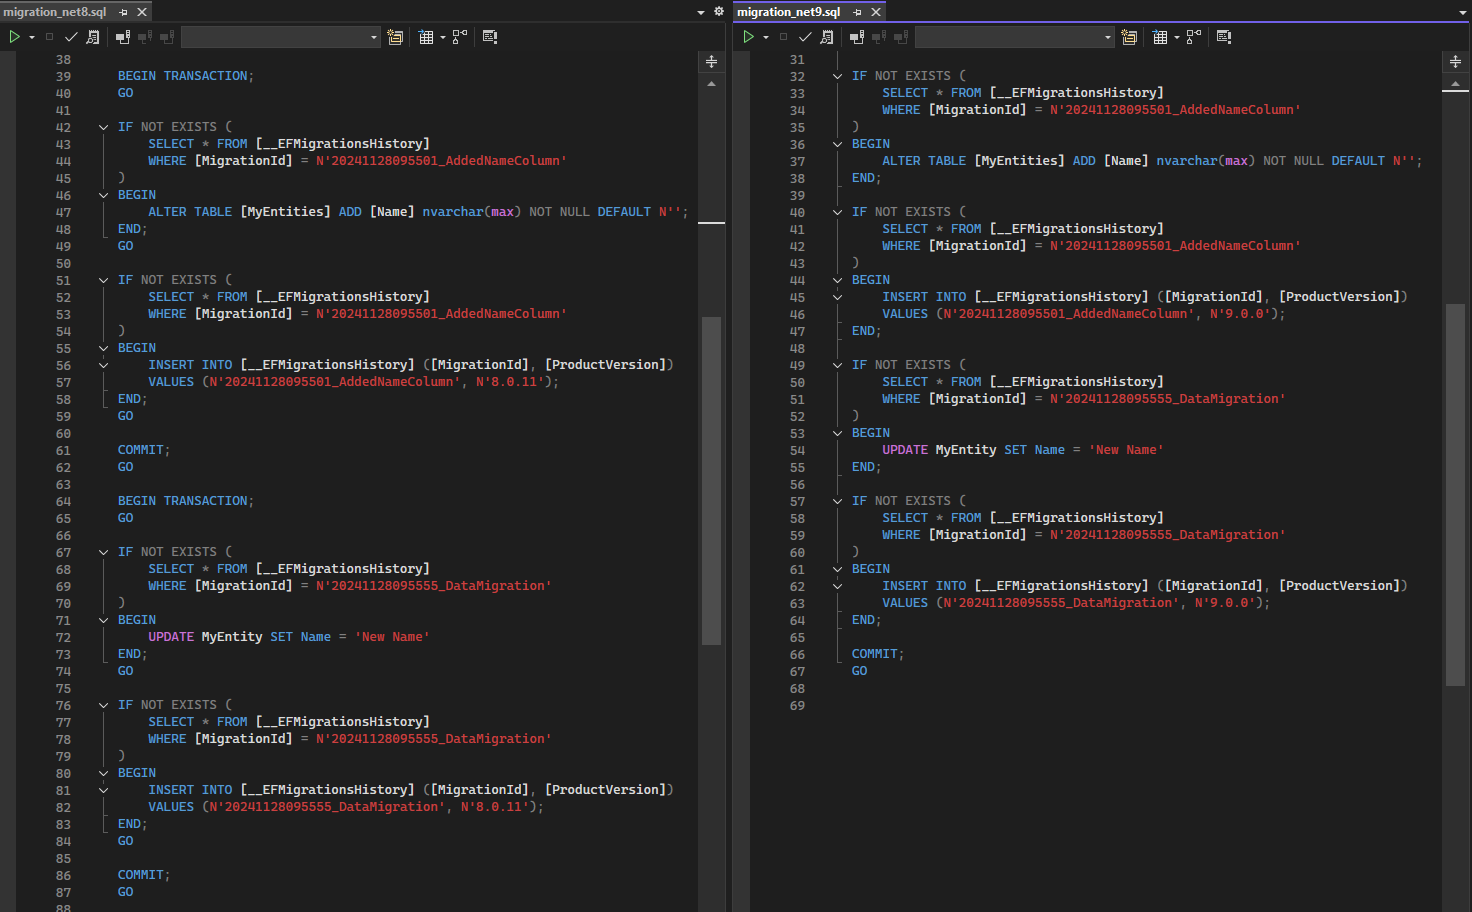
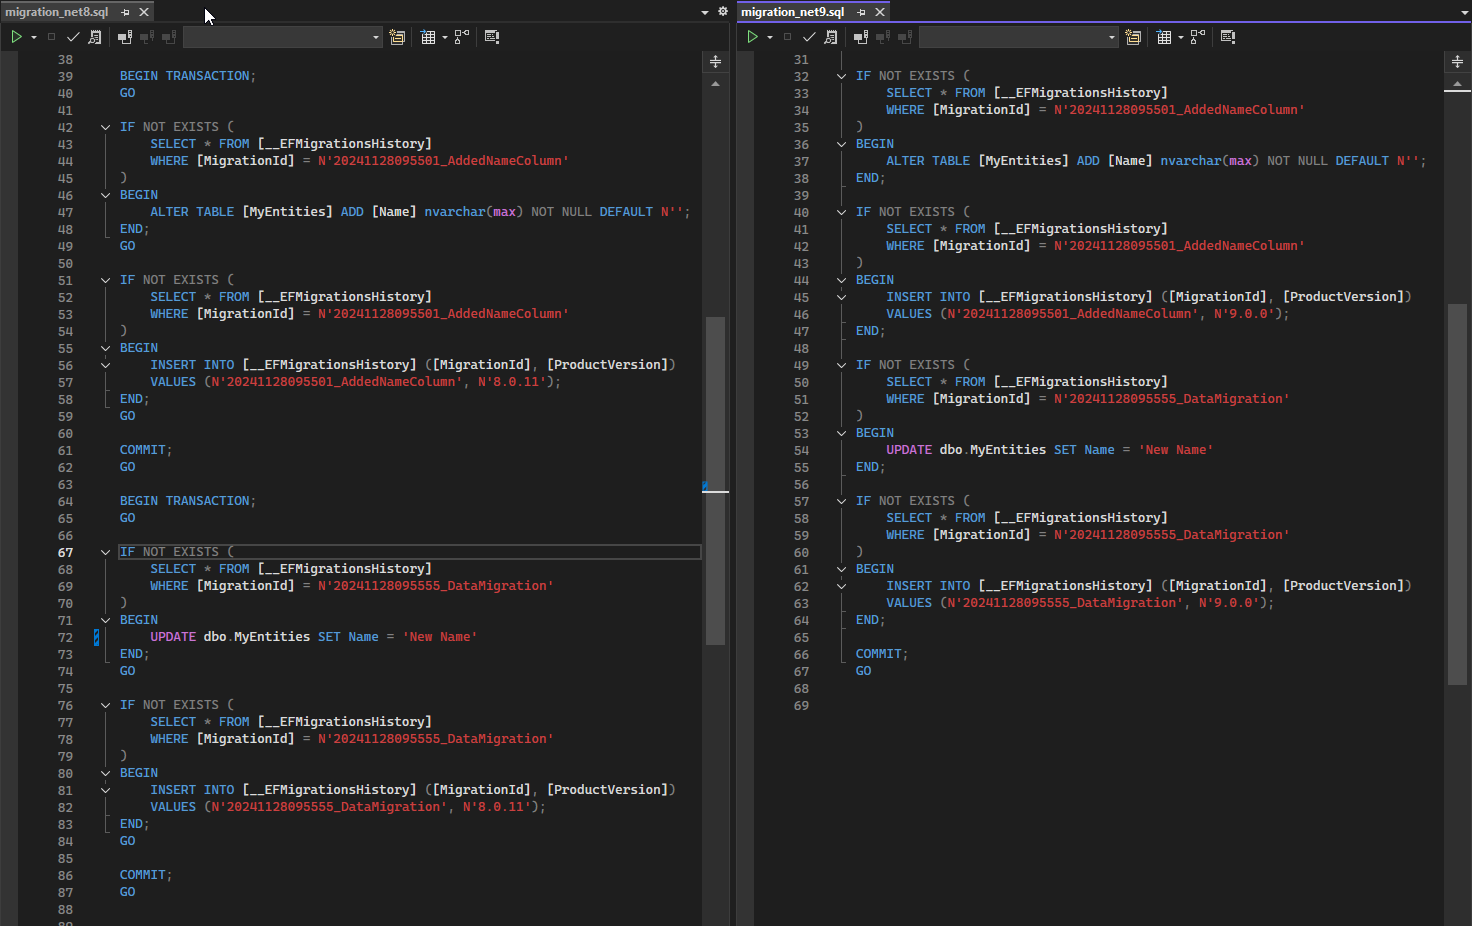
chore: cleanup

diff --git a/EfCoreMinimalReproducibleExample/Migrations/20241128095555_DataMigration.cs b/EfCoreMinimalReproducibleExample/Migrations/20241128095555_DataMigration.cs
@@ -11,7 +11,7 @@ namespace EfCoreMinimalReproducibleExample.Migrations
         /// <inheritdoc />
         protected override void Up(MigrationBuilder migrationBuilder)
         {
-            migrationBuilder.Sql($"UPDATE {nameof(MyEntity)} SET Name = 'New Name'");
+            migrationBuilder.Sql($"UPDATE dbo.MyEntities SET Name = 'New Name'");
         }
 
         /// <inheritdoc />

diff --git a/EfCoreMinimalReproducibleExample/Program.cs b/EfCoreMinimalReproducibleExample/Program.cs
@@ -1,8 +1,1 @@
-using EfCoreMinimalReproducibleExample;
-
-using var ctx = new DemoDbContext();
-
-await ctx.Database.EnsureDeletedAsync();
-await ctx.Database.EnsureCreatedAsync();
-
-Console.WriteLine("herp");
+Console.WriteLine("done");
